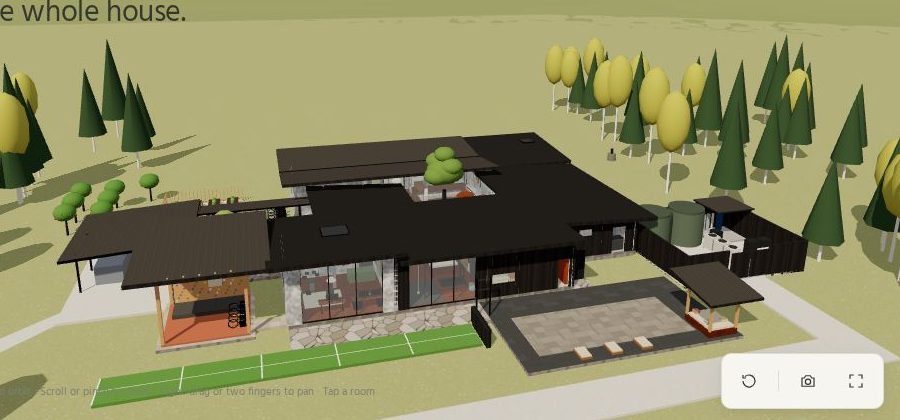
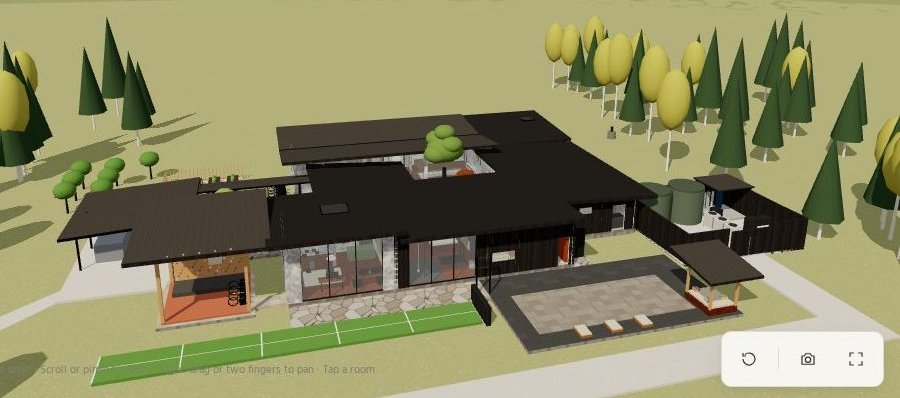
Desktop: hide phone tab bar, cap video; clean preview crop

diff --git a/index.html b/index.html
@@ -31,7 +31,7 @@ header.top .wrap{display:flex;align-items:center;gap:10px;min-height:52px}
 .hero p{margin:0;color:#525252;font-size:15px}
 .chips{display:flex;flex-wrap:wrap;gap:6px;margin-top:10px}.chip{border:1px solid #d4d4d4;background:#fff;font:700 11px Hind;letter-spacing:.08em;text-transform:uppercase;padding:5px 10px}
 .mcard{display:block;margin-top:14px;text-decoration:none;color:inherit;background:#fff;border:1px solid var(--line)}
-.mcard .img{position:relative;aspect-ratio:900/420;background:#e9e4d8 url(model.jpg) center/cover;overflow:hidden}
+.mcard .img{position:relative;aspect-ratio:900/398;background:#e9e4d8 url(model.jpg) center/cover;overflow:hidden}
 .mcard .tag{position:absolute;left:10px;top:10px;background:rgba(255,255,255,.92);font:700 10px Hind;letter-spacing:.14em;text-transform:uppercase;padding:4px 8px;border:1px solid var(--line)}
 .go{display:flex;align-items:center;justify-content:center;gap:10px;min-height:52px;border:2px solid var(--pri);background:#fff;color:var(--pri);font:700 14px Hind;letter-spacing:.14em;text-transform:uppercase;transition:background-color var(--dur) var(--ease),color var(--dur) var(--ease)}
 .mcard:hover .go{background:var(--pri);color:#fafafa}.go svg{width:20px;height:20px}
@@ -66,6 +66,7 @@ nav.tabs a svg{width:22px;height:22px}nav.tabs a:hover,nav.tabs a.on{color:var(-
 @media(min-width:1800px){body{font-size:18px}.wrap{max-width:1680px;padding:0 48px}.hero{padding:48px 0}.hero h1{font-size:84px}.hero p{font-size:19px}
  .cols{grid-template-columns:repeat(3,1fr)}.cols>.side{display:contents}h3.grp{font-size:14px}.grid{grid-template-columns:repeat(6,1fr)}.tile{min-height:150px;padding:20px}.tile b{font-size:23px}.tile span{font-size:15px}
  .acc .at,.row b{font-size:17px}.row span,.acc .ab>div{font-size:16px}.go{min-height:60px;font-size:16px}}
+@media(min-width:1024px){nav.tabs{display:none}body{padding-bottom:0}video{max-width:1100px;margin:0 auto}}
 @media(prefers-reduced-motion:reduce){*{transition:none!important}.mw-hover:hover{transform:none}}
 </style></head><body>
 <div class="rep" id="rep" hidden><div class="wrap"><button aria-expanded="false" id="repb"><span class="lab" id="rlab"></span><span class="sum" id="rsum"></span><span class="ch"></span></button><div class="ab"><div><ul id="rlist"></ul></div></div></div></div>
